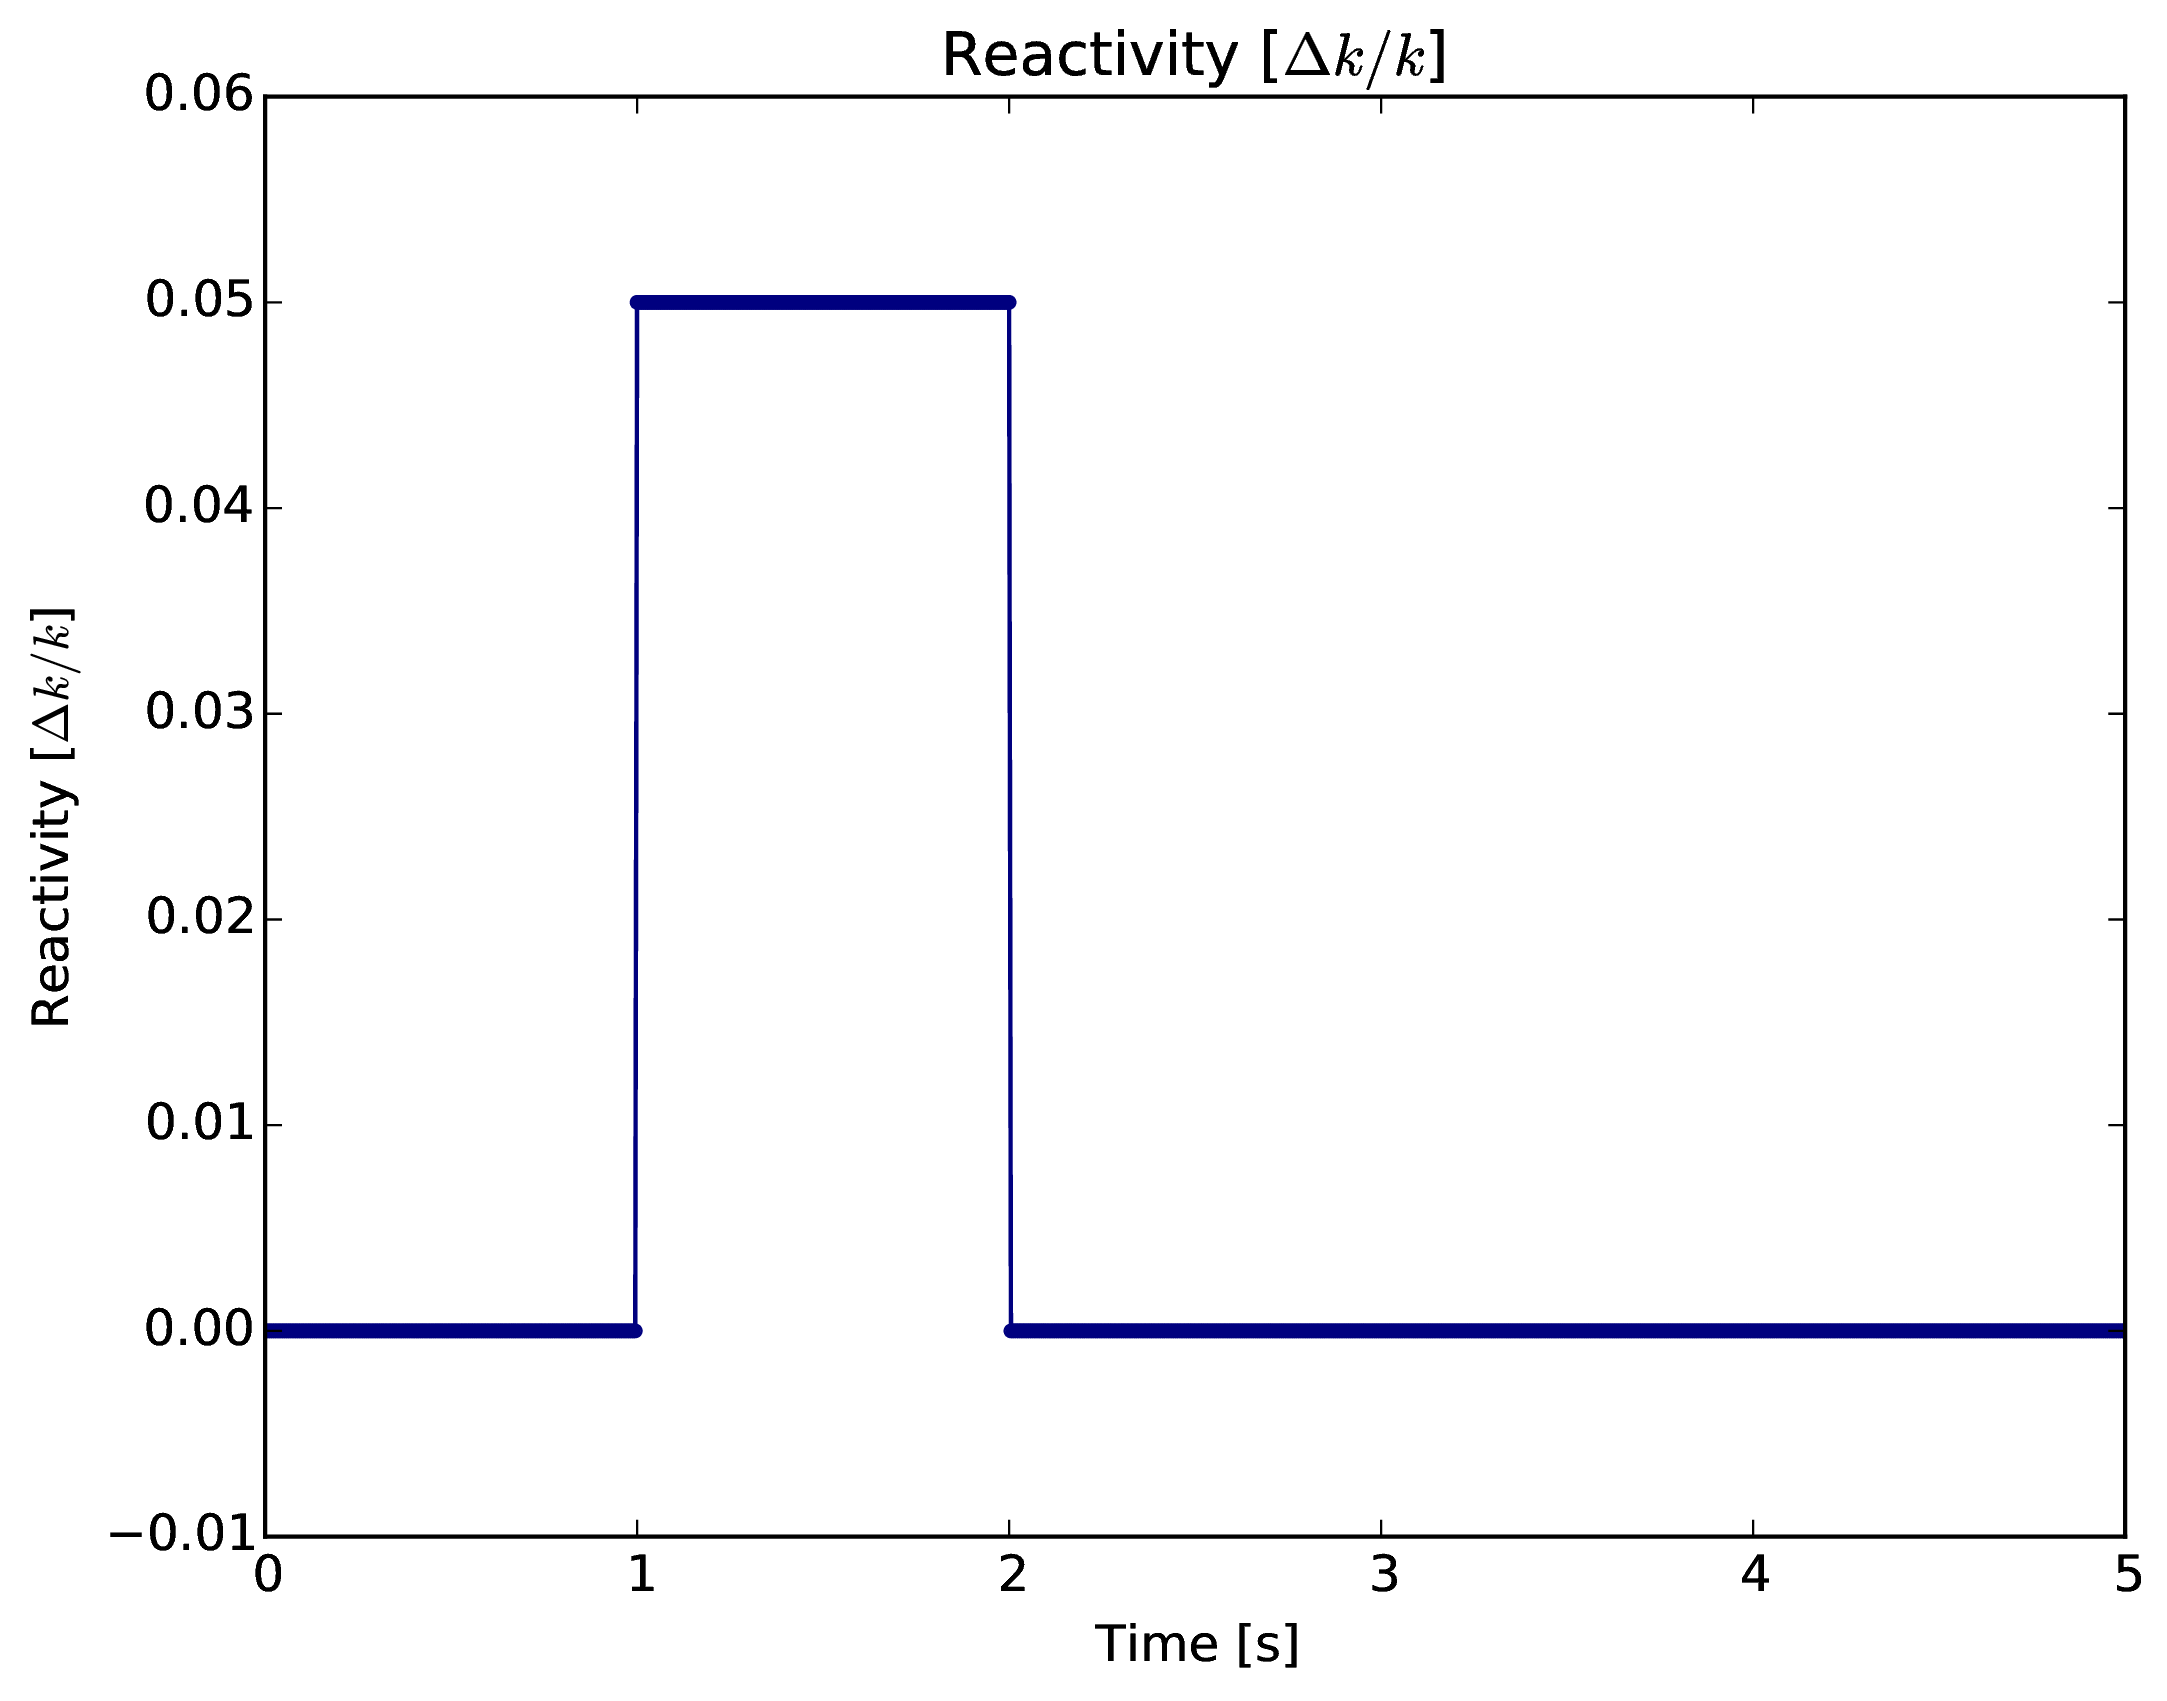
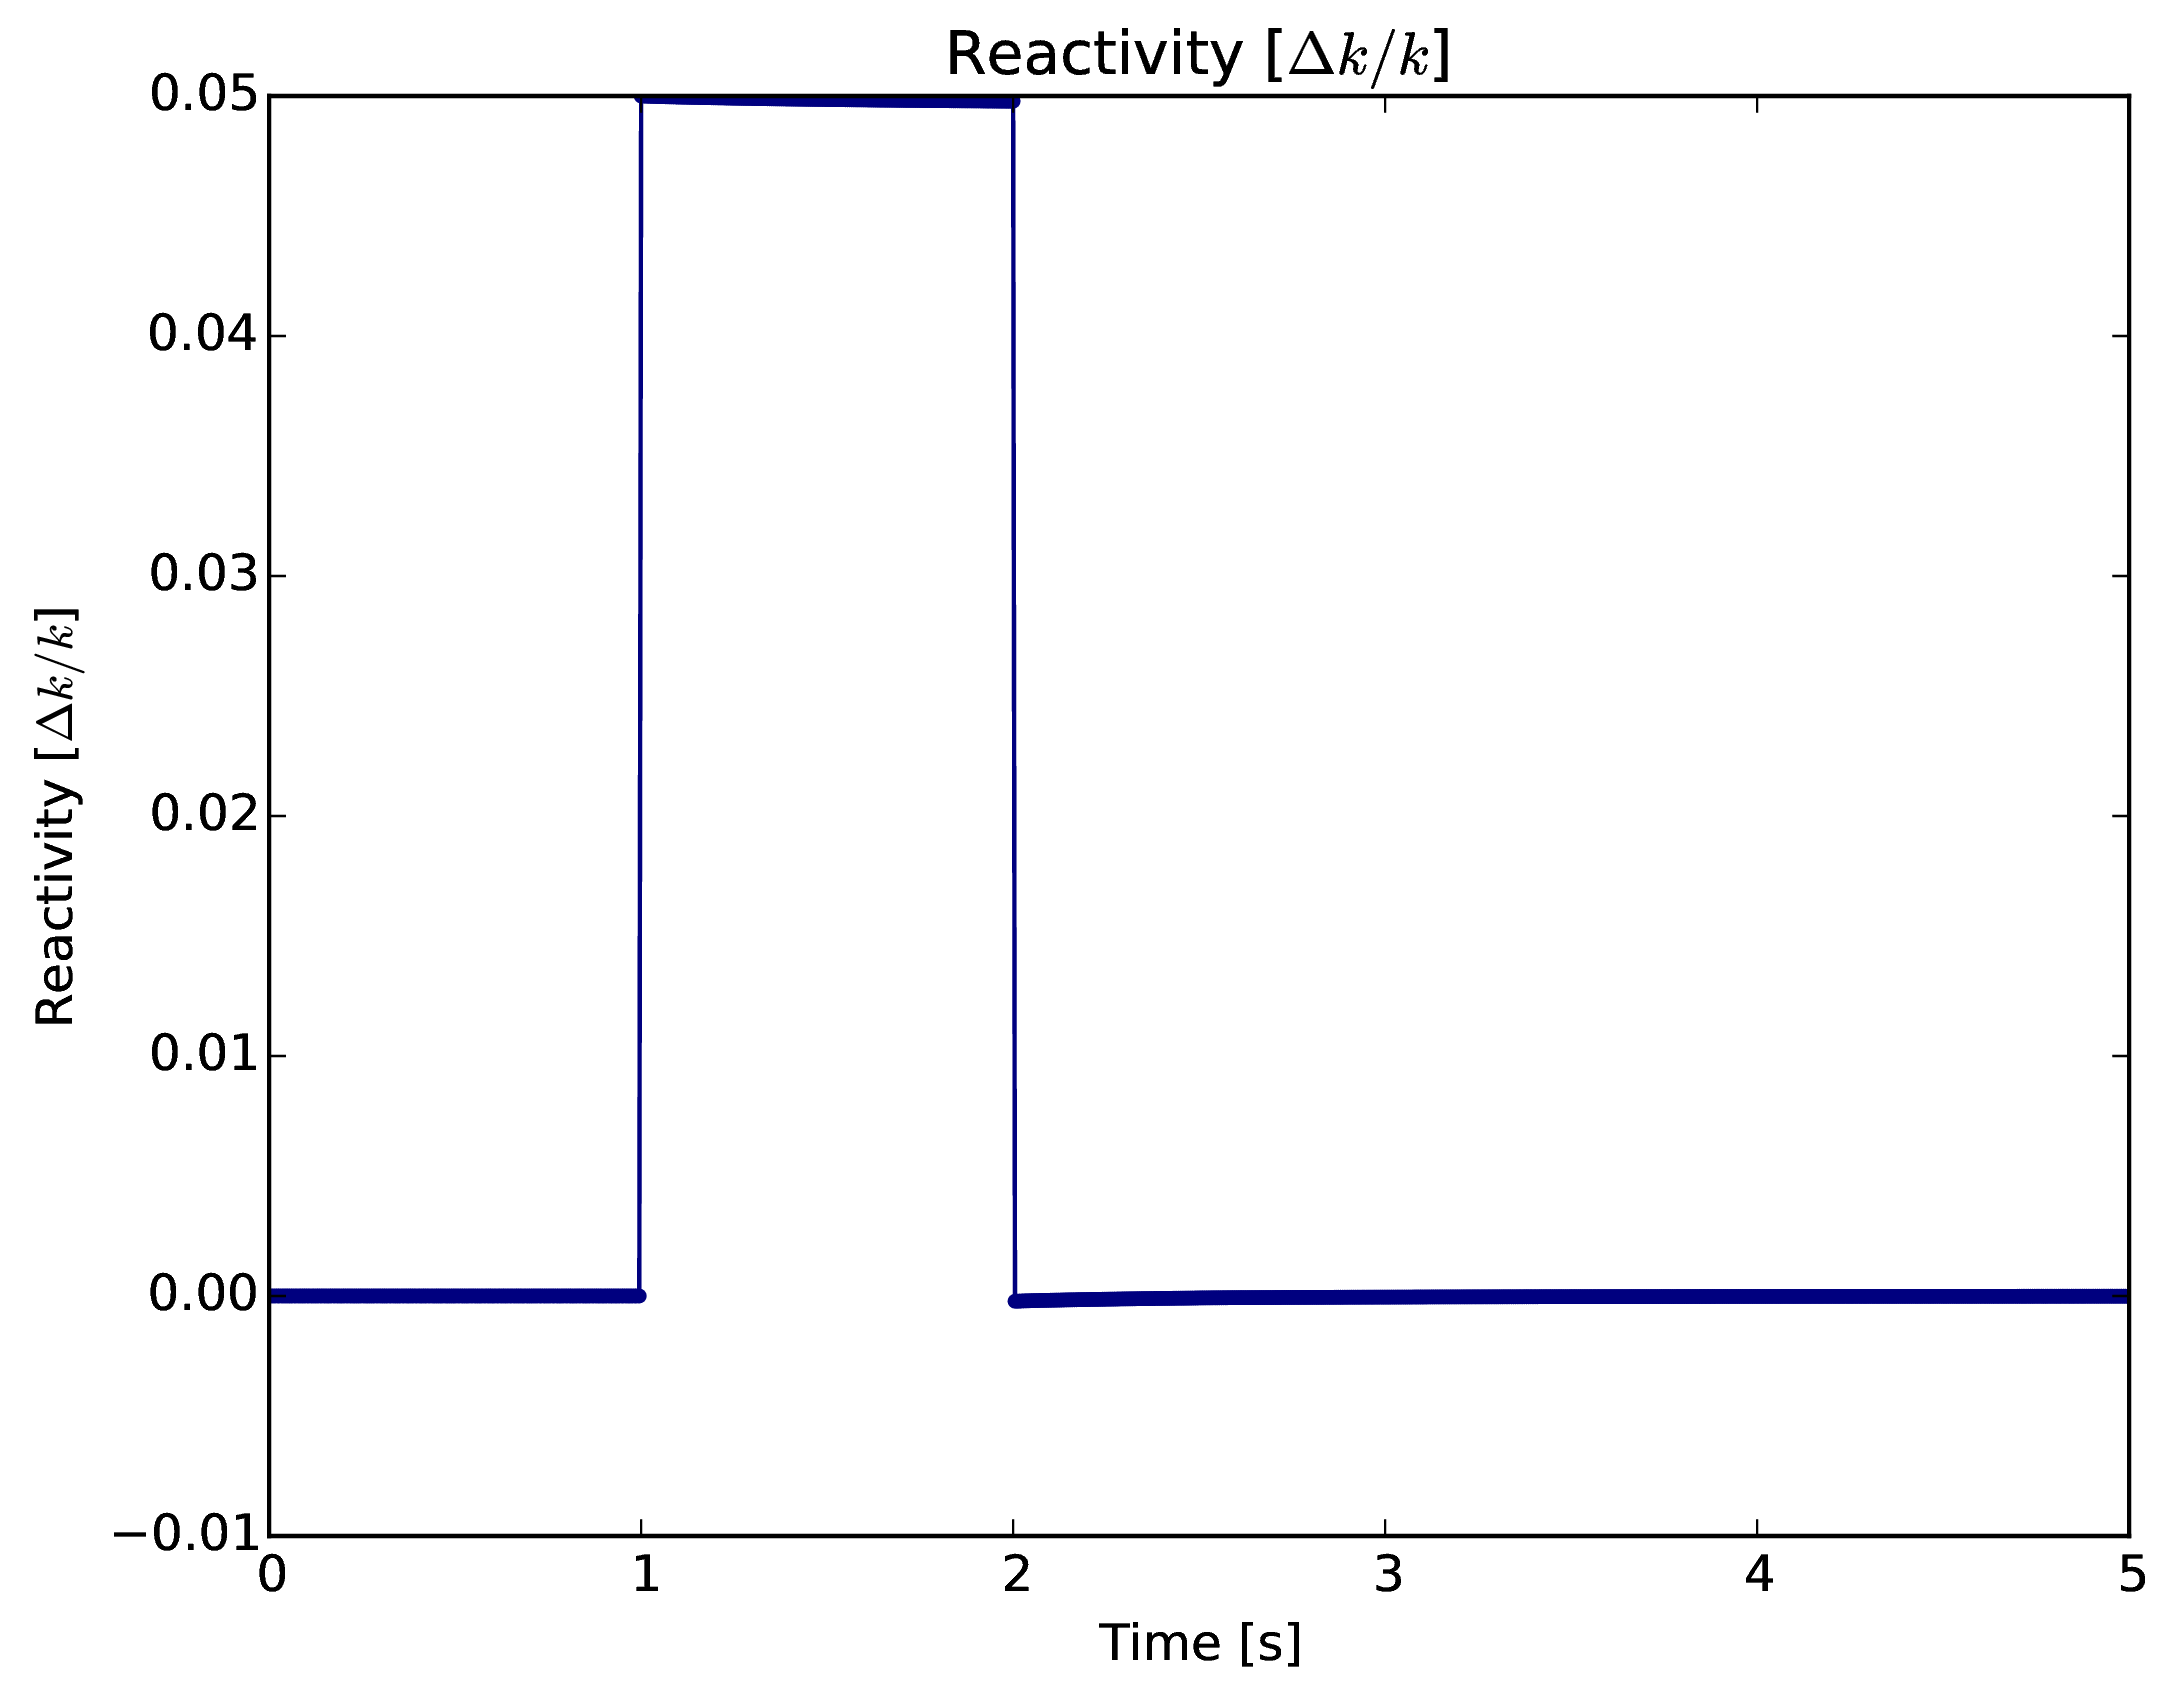
updates altered images from re-running min.py with the dtemp function working as dT rather than dT/dt

diff --git a/index.html b/index.html
@@ -427,7 +427,7 @@ rho_ext = pulse(timer=ti,
                                                     alt="reactivity insertion"></a>
                                                 <span class="fragment">
                                                   <a
-                                                    href="https://raw.githubusercontent.com/katyhuff/pyrk-scipy-2015/gh-pages/images/reactivity.png"
+                                                    href="https://raw.githubusercontent.com/katyhuff/pyrk-scipy-2015/gh-pages/images/power.png"
                                                     class="image"><img
                                                     width="43%"
                                                     src="./images/power.png"
@@ -480,14 +480,14 @@ rho_ext = pulse(timer=ti,
                                         <section>
                                          <h3>Component Temperatures</h3>
                                                   <a
-                                                    href="https://raw.githubusercontent.com/katyhuff/pyrk-scipy-2015/gh-pages/images/reactivity.png"
+                                                    href="https://raw.githubusercontent.com/katyhuff/pyrk-scipy-2015/gh-pages/images/insertion.png"
                                                     class="image"><img
                                                     width="45%"
                                                     src="./images/insertion.png"
                                                     alt="reactivity insertion"></a>
                                                 <span class="fragment">
                                                   <a
-                                                    href="http://physics.codes/images/runsnake-fh.png"
+                                                    href="https://raw.githubusercontent.com/katyhuff/pyrk-scipy-2015/gh-pages/images/temps.png"
                                                     class="image"><img
                                                     width="44%"
                                                     src="./images/temps.png"
